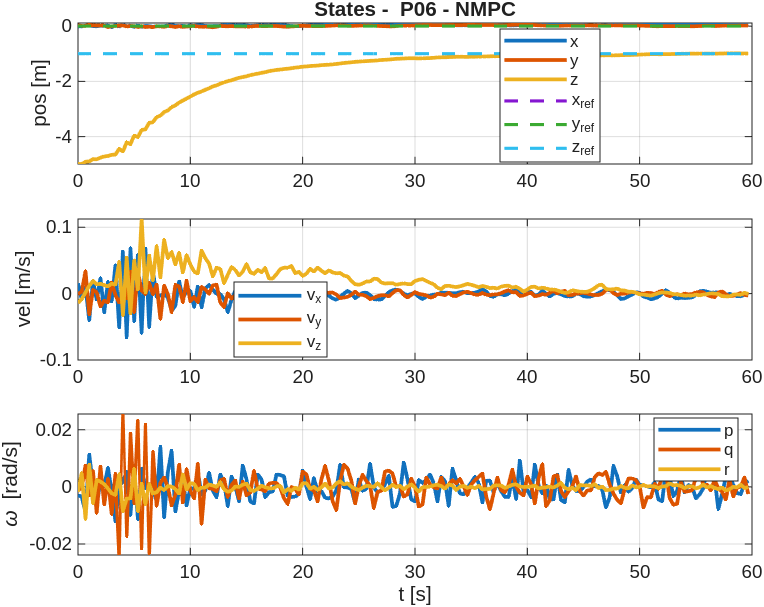
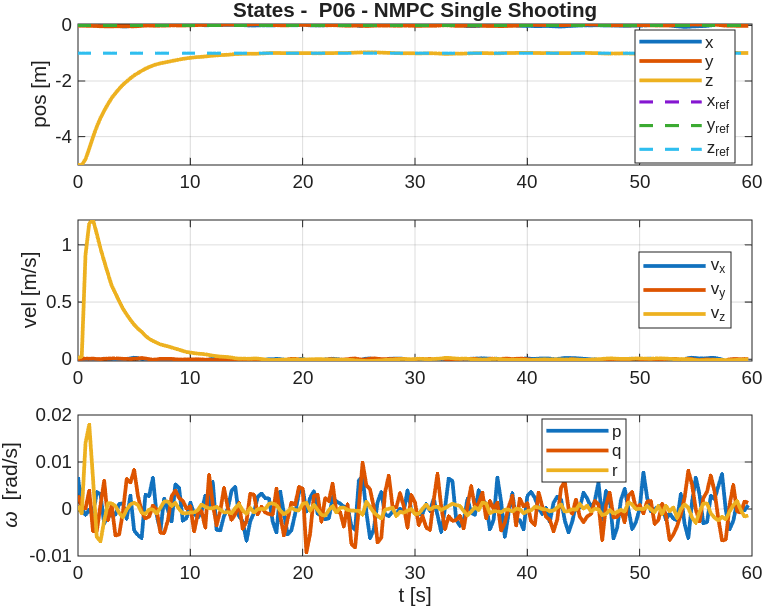
completed test for point stabalization

diff --git a/MATLAB/GNC_Algorithms/Control/run_P08a_point_multi.m b/MATLAB/GNC_Algorithms/Control/run_P08a_point_multi.m
@@ -30,8 +30,10 @@ function run_P08a_point_multi()
 
     Ts = dt_dyn;
 
-    N_horizon = 25;                       % prediction horizon length
+    N_horizon = 15;                       % prediction horizon length
     fprintf('Setting up NMPC with Ts=%.3f s and N=%d\n', Ts, N_horizon);
+
+    k_lookahead = 3; % which future ref to track
 
     % time horizon in seconds
     time_horizon = Ts * N_horizon;
@@ -109,18 +111,27 @@ function run_P08a_point_multi()
         % with current state: x_curr
         % compute the LQR around current state
         % Given x_curr and x_ref, compute optimal control u_nmpc
+        t_mpc_start = tic;
         [u_nmpc, aux_nmpc] = p08_mpc_step(x_curr, x_ref, nmpc);
+        t_mpc = toc(t_mpc_start);
 
         
         % saturate the control inputs
         u_sat = saturate_control(u_nmpc, px4_config);
        
         % Nonlinear dynamics integration
-        dynamics_func = @(t, x) drone_nonlinear_dynamics(t, x, u_sat, px4_config);
-        x_next = RK4(dynamics_func, x_curr, dt_dyn, t);
+        % dynamics_func = @(t, x) drone_nonlinear_dynamics(t, x, u_sat, px4_config);
+        % x_next = RK4(dynamics_func, x_curr, dt_dyn, t);
         
-        % Normalize the predicted quaternion
-        x_next(7:10) = x_next(7:10) / norm(x_next(7:10));
+        % % Normalize the predicted quaternion
+        % x_next(7:10) = x_next(7:10) / norm(x_next(7:10));
+
+        % guidance selection
+        idx_look = min(k_lookahead, nmpc.N + 1);   % safety
+        x_sp = aux_nmpc.X_opt(:, idx_look);        % [13x1] predicted state
+        x_sp(7:10) = x_sp(7:10) / norm(x_sp(7:10));%
+
+        yaw_sp = 0;
         
         thrust_cmd = u_sat(1);
         tau_cmd = u_sat(2:4);
@@ -130,7 +141,9 @@ function run_P08a_point_multi()
         
         switch CONTROL_MODE
             case 'position'
-                px4_send_trajectory(client, x_next(1), x_next(2), x_next(3), 0, config);
+                % px4_send_trajectory(client, x_next(1), x_next(2), x_next(3), 0, config);
+
+                px4_send_trajectory(client, x_sp(1), x_sp(2), x_sp(3), yaw_sp, config);
                 
             case 'attitude'
                 [q_desired, roll_des, pitch_des, yaw_des, angle_limited] = saturate_attitude(x_next, deg2rad(15));
@@ -175,19 +188,28 @@ function run_P08a_point_multi()
             if u_sat(1) ~= u_nmpc(1), fprintf(' [T_SAT]'); end
             if any(abs(u_nmpc(2:4)) > 1.5), fprintf(' [τ_SAT]'); end
             fprintf('\n');
+            fprintf('| T_virt=%.1fN τ_virt=[%.3f,%.3f,%.3f]Nm | N=%d k_look=%d t_MPC=%.3fs\n', ...
+                thrust_cmd, tau_cmd(1), tau_cmd(2), tau_cmd(3), ...
+                nmpc.N, k_lookahead, t_mpc);
         end
 
         % Logging and Timing
         log_data = update_log(log_data, t, x_curr, x_err, u_sat);
-        i_log = log_data.index - 1;
-        log_data.pred(:, i_log) = x_next;
+        % Add reference and predicted state for this sample
+        i_log = log_data.index - 1;      % last sample index used in update_log (because i is updated already)
+        
+        log_data.x_ref(:, i_log)  = x_ref;
+        
+        log_data.pred(:, i_log) = x_sp;
+
+        % MPC solver time
+        log_data.mpc_time(i_log) = t_mpc;
 
         t = t + dt_dyn;
         elapsed = toc(loop_start);
 
         % Store CPU time per control step
-        i = log_data.index - 1;           % last written sample
-        log_data.step_time(i) = elapsed;  % seconds
+        log_data.step_time(i_log) = elapsed;  % seconds
 
         if elapsed < dt_dyn
             pause(dt_dyn - elapsed);

diff --git a/MATLAB/GNC_Algorithms/Control/NMPC/p08a_setup_mpc_multi.m b/MATLAB/GNC_Algorithms/Control/NMPC/p08a_setup_mpc_multi.m
@@ -102,7 +102,7 @@ function nmpc = p08a_setup_mpc_multi(px4_config, Ts, N)
     % setup cost function
     Q_pos = diag([  5,  5, 40 ]);
     Q_vel = diag([  2,  2,  12 ]);
-    Q_q   = diag([ 40, 20, 20, 20 ]);
+    Q_q   = diag([ 20, 20, 20, 20 ]);
     Q_omega  = diag([  2,  2,  2 ]);
 
     Q  = blkdiag(Q_pos, Q_vel, Q_q, Q_omega);

diff --git a/MATLAB/GNC_Algorithms/Control/_report/log251130a_point.md b/MATLAB/GNC_Algorithms/Control/_report/log251130a_point.md
@@ -1,0 +1,206 @@
+
+
+
+
+## P01
+
+```
+run_P01_LQR
+Connecting to 127.0.1.1:8766...
+Connected to 127.0.1.1:8766
+Starting simulation...
+Control mode: position
+Takeoff complete at 5.0m
+Switched to position control mode
+Starting manual control...
+Starting the LQR simulation...
+t=0.0s | pos=[0.02,0.00,-4.99] err=[0.02,0.00,-3.99](3.99m) | vel=[0.00,-0.01,-0.01] | | T=2.9N τ=[0.014,0.012,-0.029]Nm [T_SAT]
+t=8.3s | pos=[0.00,0.00,-2.19] err=[0.00,0.00,-1.19](1.19m) | vel=[0.01,-0.00,0.20] | | T=10.3N τ=[-0.003,0.006,0.000]Nm
+t=16.7s | pos=[0.02,0.01,-1.33] err=[0.02,0.01,-0.33](0.33m) | vel=[-0.00,0.00,0.06] | | T=13.5N τ=[-0.010,0.020,-0.000]Nm
+t=25.0s | pos=[0.02,-0.02,-1.08] err=[0.02,-0.02,-0.08](0.09m) | vel=[0.00,-0.00,0.01] | | T=14.4N τ=[0.032,0.035,0.000]Nm
+t=33.3s | pos=[-0.00,0.03,-0.99] err=[-0.00,0.03,0.01](0.03m) | vel=[-0.00,-0.01,-0.00] | | T=14.8N τ=[-0.043,-0.006,-0.001]Nm
+t=41.7s | pos=[-0.02,0.00,-0.99] err=[-0.02,0.00,0.01](0.02m) | vel=[0.00,-0.00,-0.00] | | T=14.8N τ=[0.000,-0.026,-0.002]Nm
+t=50.0s | pos=[-0.02,0.00,-1.00] err=[-0.02,0.00,0.00](0.02m) | vel=[0.00,0.00,0.00] | | T=14.7N τ=[-0.009,-0.031,0.004]Nm
+t=58.3s | pos=[-0.01,-0.04,-1.02] err=[-0.01,-0.04,-0.02](0.05m) | vel=[-0.00,0.02,0.00] | | T=14.6N τ=[0.061,-0.012,-0.002]Nm
+Control log saved to: log_p01_lqr.mat
+
+=== Metrics ( P01 - LQR) ===
+RMSE [ex, ey, ez] = [0.016, 0.021, 1.006] m
+RMSE of norm(e)       = 1.006 m
+Max err [ex, ey, ez] = [0.039, 0.052, 3.989] m
+Max of norm(e)        = 3.989 m
+
+Average control effort  mean of (u)   = 13.049
+Max control effort      max(u)    = 14.772
+Average thrust          mean(T)       = 13.049 N
+Max thrust              max(T)        = 14.772 N
+Average torque norm     mean(tau) = 0.037 Nm
+Max torque norm         max(tau)  = 0.082 Nm
+Average CPU time per step  = 0.0909 s
+Max CPU time per step      = 0.1069 s
+======================================
+
+Connecting to 127.0.1.1:8766...
+Connected to 127.0.1.1:8766
+Switched to position control mode
+
+```
+
+
+## P04
+
+```
+>> run_P04_LMPC_point_multi
+Connecting to 127.0.1.1:8766...
+Connected to 127.0.1.1:8766
+Starting Simulation...
+Control mode: position
+Takeoff complete at 5.0m
+Switched to position control mode
+Starting manual control...
+Starting the LMPC simulation...
+Setting up LMPC with Ts=0.333 s and N=15
+Time horizon: 5.000 seconds
+
+******************************************************************************
+This program contains Ipopt, a library for large-scale nonlinear optimization.
+ Ipopt is released as open source code under the Eclipse Public License (EPL).
+         For more information visit https://github.com/coin-or/Ipopt
+******************************************************************************
+
+t=0.0s | pos=[-0.00,0.03,-4.99] err=[-0.00,0.03,-3.99](3.99m) | vel=[0.03,-0.03,-0.01] | | T=7.4N τ=[0.002,-0.000,0.023]Nm
+| T_virt=7.4N τ_virt=[0.002,-0.000,0.023]Nm | N=15 k_look=3 t_MPC=0.073s
+t=8.3s | pos=[0.05,-0.02,-1.57] err=[0.05,-0.02,-0.57](0.57m) | vel=[-0.00,0.00,0.15] | | T=13.7N τ=[0.002,0.002,0.000]Nm
+| T_virt=13.7N τ_virt=[0.002,0.002,0.000]Nm | N=15 k_look=3 t_MPC=0.017s
+t=16.7s | pos=[0.04,0.02,-1.07] err=[0.04,0.02,-0.07](0.08m) | vel=[-0.00,0.00,0.01] | | T=14.6N τ=[0.001,0.002,-0.000]Nm
+| T_virt=14.6N τ_virt=[0.001,0.002,-0.000]Nm | N=15 k_look=3 t_MPC=0.012s
+t=25.0s | pos=[0.03,-0.05,-1.02] err=[0.03,-0.05,-0.02](0.06m) | vel=[0.01,-0.00,0.00] | | T=14.7N τ=[0.002,0.000,0.000]Nm
+| T_virt=14.7N τ_virt=[0.002,0.000,0.000]Nm | N=15 k_look=3 t_MPC=0.017s
+t=33.3s | pos=[0.04,-0.03,-0.99] err=[0.04,-0.03,0.01](0.04m) | vel=[0.00,0.00,-0.00] | | T=14.7N τ=[0.002,0.002,0.000]Nm
+| T_virt=14.7N τ_virt=[0.002,0.002,0.000]Nm | N=15 k_look=3 t_MPC=0.016s
+t=41.7s | pos=[0.09,-0.04,-0.98] err=[0.09,-0.04,0.02](0.10m) | vel=[-0.00,0.00,-0.01] | | T=14.7N τ=[0.003,0.004,-0.000]Nm
+| T_virt=14.7N τ_virt=[0.003,0.004,-0.000]Nm | N=15 k_look=3 t_MPC=0.015s
+t=50.0s | pos=[0.03,-0.07,-1.00] err=[0.03,-0.07,0.00](0.08m) | vel=[-0.00,-0.00,-0.00] | | T=14.7N τ=[0.004,0.002,-0.000]Nm
+| T_virt=14.7N τ_virt=[0.004,0.002,-0.000]Nm | N=15 k_look=3 t_MPC=0.013s
+t=58.3s | pos=[0.09,-0.05,-1.00] err=[0.09,-0.05,-0.00](0.10m) | vel=[-0.00,-0.00,0.00] | | T=14.7N τ=[0.003,0.004,-0.000]Nm
+| T_virt=14.7N τ_virt=[0.003,0.004,-0.000]Nm | N=15 k_look=3 t_MPC=0.014s
+Control log saved to: log_p04a_lmpc.mat
+
+=== Metrics ( P04a - LMPC Multi-Shooting) ===
+RMSE [ex, ey, ez] = [0.055, 0.035, 0.824] m
+RMSE of norm(e)       = 0.827 m
+Max err [ex, ey, ez] = [0.092, 0.072, 3.990] m
+Max of norm(e)        = 3.990 m
+
+Average control effort  mean of (u)   = 14.181
+Max control effort      max(u)    = 14.734
+Average thrust          mean(T)       = 14.181 N
+Max thrust              max(T)        = 14.734 N
+Average torque norm     mean(tau) = 0.004 Nm
+Max torque norm         max(tau)  = 0.041 Nm
+Average CPU time per step  = 0.1069 s
+Max CPU time per step      = 0.1708 s
+======================================
+```
+
+
+## P06
+
+```
+>> run_P06_NMPC
+Connecting to 127.0.1.1:8766...
+Connected to 127.0.1.1:8766
+Setting up NMPC with Ts=0.333 s and N=15
+Time horizon: 5.000 seconds
+Starting Simulation...
+Control mode: position
+Takeoff complete at 5.0m
+Switched to position control mode
+Starting manual control...
+Starting the NMPC-Point Stabilization simulation...
+t=0.0s | pos=[0.00,-0.00,-5.00] err=[0.00,-0.00,-4.00](4.00m) | vel=[0.00,-0.02,-0.00] | | T=7.4N τ=[0.002,0.000,0.004]Nm
+| T_virt=7.4N τ_virt=[0.002,0.000,0.004]Nm | N=15 k_look=3 t_MPC=0.350s
+t=8.3s | pos=[0.01,-0.02,-1.28] err=[0.01,-0.02,-0.28](0.28m) | vel=[0.00,0.00,0.10] | | T=14.3N τ=[0.000,0.000,0.000]Nm
+| T_virt=14.3N τ_virt=[0.000,0.000,0.000]Nm | N=15 k_look=3 t_MPC=0.032s
+t=16.7s | pos=[-0.02,-0.01,-1.02] err=[-0.02,-0.01,-0.02](0.03m) | vel=[0.01,0.00,0.00] | | T=14.7N τ=[0.001,-0.001,0.000]Nm
+| T_virt=14.7N τ_virt=[0.001,-0.001,0.000]Nm | N=15 k_look=3 t_MPC=0.034s
+t=25.0s | pos=[-0.02,-0.00,-0.98] err=[-0.02,-0.00,0.02](0.02m) | vel=[-0.00,-0.00,-0.01] | | T=14.7N τ=[0.001,-0.001,0.000]Nm
+| T_virt=14.7N τ_virt=[0.001,-0.001,0.000]Nm | N=15 k_look=3 t_MPC=0.041s
+t=33.3s | pos=[-0.01,0.02,-1.01] err=[-0.01,0.02,-0.01](0.02m) | vel=[0.00,-0.01,0.01] | | T=14.7N τ=[-0.000,-0.000,-0.000]Nm
+| T_virt=14.7N τ_virt=[-0.000,-0.000,-0.000]Nm | N=15 k_look=3 t_MPC=0.023s
+t=41.7s | pos=[0.01,-0.01,-0.99] err=[0.01,-0.01,0.01](0.02m) | vel=[-0.00,0.00,-0.00] | | T=14.7N τ=[0.000,0.001,0.000]Nm
+| T_virt=14.7N τ_virt=[0.000,0.001,0.000]Nm | N=15 k_look=3 t_MPC=0.026s
+t=50.0s | pos=[-0.01,-0.00,-0.99] err=[-0.01,-0.00,0.01](0.01m) | vel=[0.00,-0.00,-0.00] | | T=14.7N τ=[-0.000,-0.000,0.000]Nm
+| T_virt=14.7N τ_virt=[-0.000,-0.000,0.000]Nm | N=15 k_look=3 t_MPC=0.030s
+t=58.3s | pos=[-0.01,0.01,-1.00] err=[-0.01,0.01,-0.00](0.02m) | vel=[0.01,0.01,0.00] | | T=14.7N τ=[-0.000,-0.001,-0.000]Nm
+| T_virt=14.7N τ_virt=[-0.000,-0.001,-0.000]Nm | N=15 k_look=3 t_MPC=0.032s
+Control log saved to: log_p06_nmpc.mat
+
+=== Metrics ( P06 - NMPC Single Shooting) ===
+RMSE [ex, ey, ez] = [0.016, 0.017, 0.748] m
+RMSE of norm(e)       = 0.748 m
+Max err [ex, ey, ez] = [0.035, 0.039, 4.001] m
+Max of norm(e)        = 4.001 m
+
+Average control effort  mean of (u)   = 14.330
+Max control effort      max(u)    = 14.749
+Average thrust          mean(T)       = 14.330 N
+Max thrust              max(T)        = 14.749 N
+Average torque norm     mean(tau) = 0.001 Nm
+Max torque norm         max(tau)  = 0.006 Nm
+Average CPU time per step  = 0.1282 s
+Max CPU time per step      = 0.5475 s
+======================================
+
+```
+
+
+## P08
+
+```
+>> run_P08a_point_multi
+Connecting to 127.0.1.1:8766...
+Connected to 127.0.1.1:8766
+Setting up NMPC with Ts=0.333 s and N=15
+Time horizon: 5.000 seconds
+Starting Simulation...
+Control mode: position
+Takeoff complete at 5.0m
+Switched to position control mode
+Starting manual control...
+Starting the NMPC Point Stab. Multi simulation...
+t=0.0s | pos=[-0.01,0.00,-4.99] err=[-0.01,0.00,-3.99](3.99m) | vel=[0.02,-0.01,-0.00] | | T=7.4N τ=[0.001,0.002,0.002]Nm
+| T_virt=7.4N τ_virt=[0.001,0.002,0.002]Nm | N=15 k_look=3 t_MPC=0.029s
+t=8.3s | pos=[0.00,0.03,-1.25] err=[0.00,0.03,-0.25](0.25m) | vel=[-0.01,0.00,0.09] | | T=14.3N τ=[0.000,0.001,0.000]Nm
+| T_virt=14.3N τ_virt=[0.000,0.001,0.000]Nm | N=15 k_look=3 t_MPC=0.016s
+t=16.7s | pos=[0.00,-0.01,-1.01] err=[0.00,-0.01,-0.01](0.02m) | vel=[0.00,-0.00,0.00] | | T=14.7N τ=[0.000,-0.000,0.000]Nm
+| T_virt=14.7N τ_virt=[0.000,-0.000,0.000]Nm | N=15 k_look=3 t_MPC=0.015s
+t=25.0s | pos=[-0.02,0.02,-1.02] err=[-0.02,0.02,-0.02](0.04m) | vel=[0.01,-0.00,0.01] | | T=14.7N τ=[-0.000,-0.001,0.000]Nm
+| T_virt=14.7N τ_virt=[-0.000,-0.001,0.000]Nm | N=15 k_look=3 t_MPC=0.017s
+t=33.3s | pos=[-0.01,-0.01,-0.99] err=[-0.01,-0.01,0.01](0.02m) | vel=[-0.01,-0.00,-0.01] | | T=14.7N τ=[0.001,0.000,0.000]Nm
+| T_virt=14.7N τ_virt=[0.001,0.000,0.000]Nm | N=15 k_look=3 t_MPC=0.020s
+t=41.7s | pos=[0.04,-0.01,-1.01] err=[0.04,-0.01,-0.01](0.04m) | vel=[-0.00,-0.01,0.00] | | T=14.7N τ=[0.001,0.001,0.001]Nm
+| T_virt=14.7N τ_virt=[0.001,0.001,0.001]Nm | N=15 k_look=3 t_MPC=0.019s
+t=50.0s | pos=[0.00,-0.00,-0.99] err=[0.00,-0.00,0.01](0.01m) | vel=[0.00,0.01,-0.00] | | T=14.7N τ=[0.001,-0.000,0.000]Nm
+| T_virt=14.7N τ_virt=[0.001,-0.000,0.000]Nm | N=15 k_look=3 t_MPC=0.013s
+t=58.3s | pos=[0.01,0.02,-1.01] err=[0.01,0.02,-0.01](0.03m) | vel=[0.00,0.00,0.00] | | T=14.7N τ=[-0.000,0.001,-0.000]Nm
+| T_virt=14.7N τ_virt=[-0.000,0.001,-0.000]Nm | N=15 k_look=3 t_MPC=0.015s
+Control log saved to: log_p08a_nmpc.mat
+
+=== Metrics ( P08a - NMPC Multi-Shooting) ===
+RMSE [ex, ey, ez] = [0.021, 0.022, 0.705] m
+RMSE of norm(e)       = 0.706 m
+Max err [ex, ey, ez] = [0.055, 0.054, 3.993] m
+Max of norm(e)        = 3.993 m
+
+Average control effort  mean of (u)   = 14.369
+Max control effort      max(u)    = 14.739
+Average thrust          mean(T)       = 14.369 N
+Max thrust              max(T)        = 14.739 N
+Average torque norm     mean(tau) = 0.001 Nm
+Max torque norm         max(tau)  = 0.004 Nm
+Average CPU time per step  = 0.1084 s
+Max CPU time per step      = 0.1219 s
+======================================
+
+```
